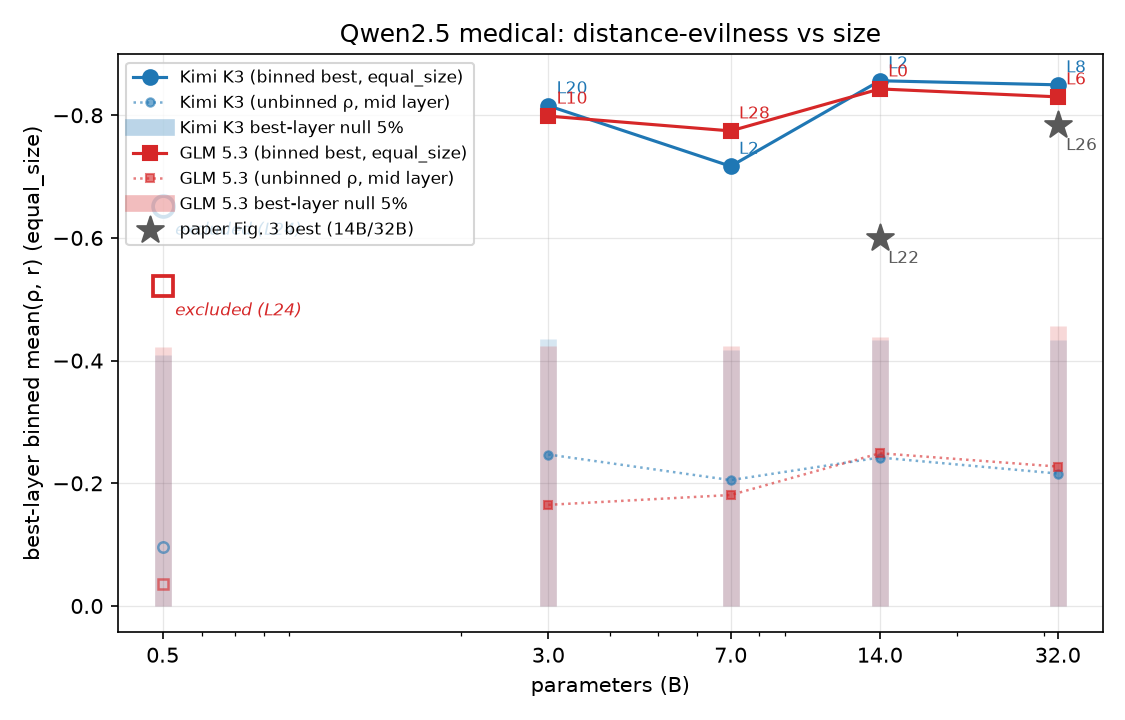
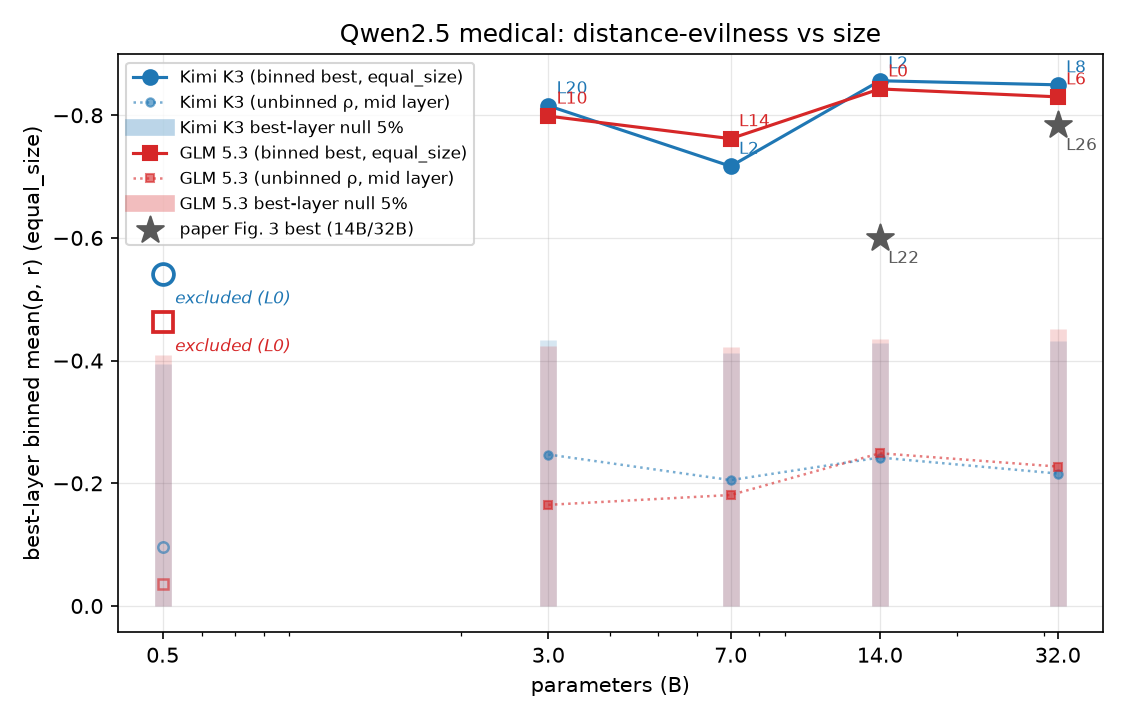
Exclude post-final-norm layer from best-layer search in sweep figures
hidden_states[-1] is post-final-norm, not a residual-stream layer (see
binning-sensitivity README finding 7); it won best-layer at 0.5B and 7B-GLM
by a different mechanism. Excluded from argmin (real curve and null) in
plot_figure3/plot_scaling/plot_model_shapes; figures regenerated; results.md
and dans-result values updated (GLM 7B -0.774@L28 -> -0.762@L14).

diff --git a/scripts/plot_model_shapes.py b/scripts/plot_model_shapes.py
@@ -84,7 +84,10 @@ def main():
         for size, path in panels:
             vals = sweep(path, args.bins)
             depth = np.arange(len(vals)) / (len(vals) - 1)  # relative depth 0..1
-            best = int(np.nanargmin(vals))
+            # Final layer is the post-final-norm state, not a residual-stream
+            # layer — exclude it from the best-layer search (binning-sensitivity
+            # README, finding 7).
+            best = int(np.nanargmin(vals[:-1]))
             ax.plot(depth, vals, lw=1.6, color=SIZE_STYLE[size],
                     label=f"{size} (best {vals[best]:.2f} @ {depth[best]:.2f})")
             ax.scatter(depth[best], vals[best], color=SIZE_STYLE[size],
@@ -105,7 +108,7 @@ def main():
     for judge, panels in JUDGES.items():
         for size, path in panels:
             vals = sweep(path, args.bins)
-            best = int(np.nanargmin(vals))
+            best = int(np.nanargmin(vals[:-1]))  # exclude post-final-norm layer
             print(f"  {judge} {size}: best {vals[best]:.3f} @ depth "
                   f"{best / (len(vals) - 1):.2f} (L{best}/{len(vals) - 1})")
 

diff --git a/scripts/plot_scaling.py b/scripts/plot_scaling.py
@@ -103,8 +103,11 @@ def best_binned(path, bins=20, mode="equal_size", n_null=1000, seed=0):
         vals[:, ell] = (rowcorr(rankdata(bx), rankdata(BY, axis=1)) +
                         rowcorr(bx, BY)) / 2
     real = vals[0]
-    best = int(np.nanargmin(real))
-    null_best = np.nanmin(vals[1:], axis=1)
+    # Exclude the final layer from the best-layer search (both the real curve
+    # and the null): hidden_states[-1] is the post-final-norm state, not a
+    # residual-stream layer (binning-sensitivity README, finding 7).
+    best = int(np.nanargmin(real[:-1]))
+    null_best = np.nanmin(vals[1:, :-1], axis=1)
     null_p05 = float(np.percentile(null_best[~np.isnan(null_best)], 5))
     mid = len(layer_cols) // 2
     rho_mid = stats.spearmanr(D[:, mid], y).statistic

diff --git a/scripts/plot_figure3.py b/scripts/plot_figure3.py
@@ -90,7 +90,10 @@ def load_panel(spec, bins, mode):
         r = stats.pearsonr(bx, by).statistic
         vals.append((rho + r) / 2)
     vals = np.array(vals)
-    best_layer = int(np.nanargmin(vals))
+    # Exclude the final layer from the best-layer search: hidden_states[-1] is
+    # the post-final-norm state, not a residual-stream layer (it wins best-layer
+    # by a different mechanism; see binning-sensitivity README, finding 7).
+    best_layer = int(np.nanargmin(vals[:-1]))
     return {"title": title, "vals": vals, "best_layer": best_layer,
             "best": vals[best_layer], "n": len(y)}
 

diff --git a/docs/results.md b/docs/results.md
@@ -189,8 +189,8 @@ settings unchanged (their drops are genuine refusals).
 
 | Setting | Kimi K3 | GLM 5.3 |
 |---|---|---|
-| 7B response_mean | −0.717 @ L2 | −0.774 @ L28 |
-| 7B prompt_mean | −0.405 @ L28 | −0.519 @ L1 |
+| 7B response_mean | −0.717 @ L2 | −0.762 @ L14 |
+| 7B prompt_mean | −0.317 @ L0 | −0.519 @ L1 |
 | 7B last_prompt_tok | −0.547 @ L3 | −0.705 @ L23 |
 | 3B | −0.815 @ L20 | −0.799 @ L10 |
 | 14B (verified) | −0.856 @ L2 | −0.843 @ L0 ⚠ |
@@ -198,8 +198,11 @@ settings unchanged (their drops are genuine refusals).
 | 32B | −0.850 @ L8 | −0.830 @ L6 |
 
 ⚠ GLM's 14B best sits at L0 (embedding layer, response_mean) — token-level,
-not representational-depth, signal; the next-best GLM 14B layers are early
-too, consistent with the shape below.
+not representational-depth, signal. Best-layer search now excludes the final
+layer: hidden_states[-1] is the post-final-norm state, not a residual-stream
+layer (binning-sensitivity README, finding 7). That exclusion moved GLM's 7B
+response_mean from −0.774 @ L28 to −0.762 @ L14, and Kimi's 7B prompt_mean
+from −0.405 @ L28 to −0.317 @ L0.
 
 - Spearman-only (the paper's Table-4 statistic) at the best layers reaches
   **−0.92 (14B, L2)** and **−0.89 (32B, L8)** — at/above the top of the

diff --git a/dans-result/README.md b/dans-result/README.md
@@ -26,11 +26,11 @@ Misalignment Is Not Magical") §3. Provisional until Dan verifies.
 
 | Size | Kimi K3 | GLM 5.3 | Kimi unbinned ρ (mid) | null p05 ≈ |
 |---|---|---|---|---|
-| 0.5B ⚠ | −0.653 @ L24 | −0.521 @ L24 | −0.096 | −0.41/−0.42 |
-| 3B | −0.815 @ L20 | −0.799 @ L10 | −0.247 | −0.44/−0.42 |
-| 7B | −0.717 @ L2 | −0.774 @ L28 | −0.205 | −0.42/−0.43 |
+| 0.5B ⚠ | −0.541 @ L0 | −0.463 @ L0 | −0.096 | −0.40/−0.41 |
+| 3B | −0.815 @ L20 | −0.799 @ L10 | −0.247 | −0.43/−0.42 |
+| 7B | −0.717 @ L2 | −0.762 @ L14 | −0.205 | −0.41/−0.42 |
 | 14B | −0.856 @ L2 | −0.843 @ L0 ⚠ | −0.242 | −0.43/−0.44 |
-| 32B | −0.850 @ L8 | −0.830 @ L6 | −0.216 | −0.43/−0.46 |
+| 32B | −0.850 @ L8 | −0.830 @ L6 | −0.216 | −0.43/−0.45 |
 
 Spearman-only at the best layers (the paper's Table-4 statistic): −0.92 (14B),
 −0.89 (32B) — at/above the top of the paper's per-setting range
